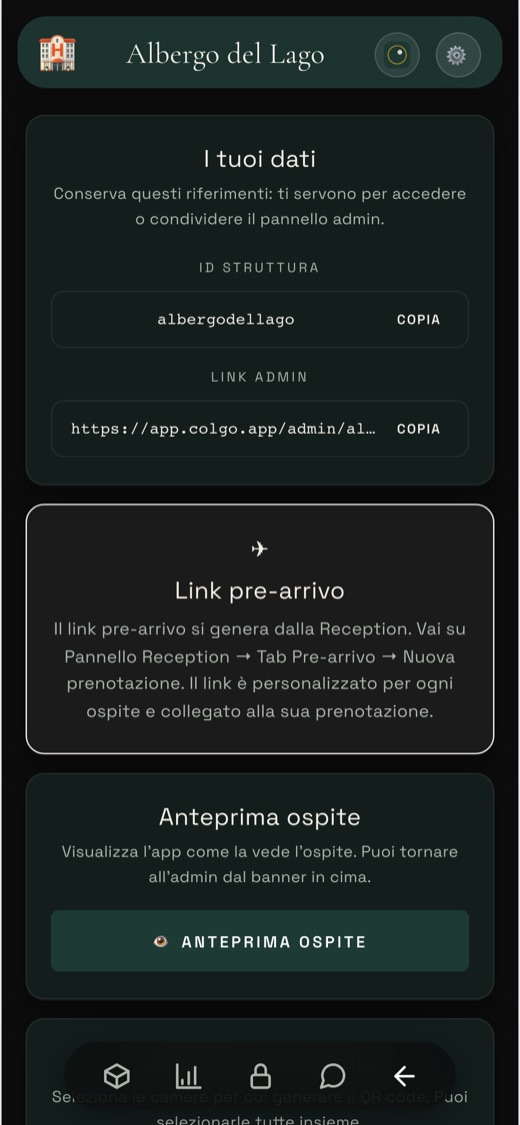
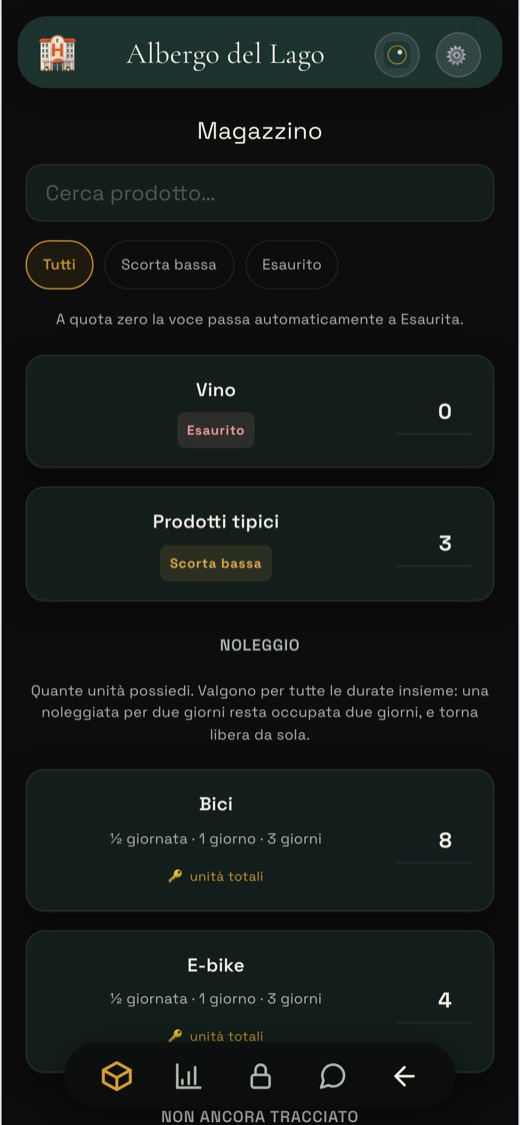
La quarta schermata della home mostrava la terza
Le due immagini erano la stessa pagina — i Link — mentre la didascalia
prometteva magazzino e statistiche. L'unica differenza era la barra in basso.

COME E' SUCCESSO, perche' e' una trappola in cui si ricasca: il tasto "Altro"
del pannello NON cambia pagina, cambia solo le icone della barra (magazzino,
statistiche, accessi, feedback). La pagina sotto resta quella di prima finche'
non si tocca una delle icone nuove. Il 16/08 mi ero fermato un clic prima, e
avevo fotografato lo stato intermedio.

Nello stesso commit di allora avevo scritto: "una didascalia che non
corrisponde all'immagine e' peggio di nessuna". Era questa.

LA NUOVA e' il Magazzino vero di Albergo del Lago: Vino esaurito, Prodotti
tipici in scorta bassa, e il blocco NOLEGGIO con Bici ed E-bike (quante unita'
esistono e per quali durate). Didascalia riscritta di conseguenza in quattro
lingue: dice scorte e noleggi, che e' cio' che si vede.

Per farla sono serviti dati che nella struttura non c'erano: il magazzino era
del tutto vuoto. Le scorte stanno solo sui PRODOTTI (Shop & Minibar) perche'
e' li' che il modello le tiene; il noleggio ha un campo suo, rental_units —
"quante ne possiedi" — con le durate sulle combinazioni. Bici ed E-bike sono
state configurate come noleggi veri, cosi' la demo pubblica ci guadagna.

520x1125 come le altre tre, con --resampleWidth.

diff --git a/index.html b/index.html
@@ -1278,8 +1278,8 @@ body::after {
         <p class="screen-caption" data-it="Stampi i QR per le tue unità" data-en="You print the QR codes for your units" data-fr="Vous imprimez les QR de vos unités" data-de="Sie drucken die QR-Codes für Ihre Einheiten">Stampi i QR per le tue unità</p>
       </div>
       <div class="screen-item">
-        <img src="screenshots/it-adm-04-altro.jpg" alt="E vedi magazzino e statistiche" loading="lazy">
-        <p class="screen-caption" data-it="E vedi magazzino e statistiche" data-en="And you see inventory and statistics" data-fr="Et vous voyez stock et statistiques" data-de="Und Sie sehen Lager und Statistiken">E vedi magazzino e statistiche</p>
+        <img src="screenshots/it-adm-04-altro.jpg" alt="E tieni d'occhio scorte e noleggi" loading="lazy">
+        <p class="screen-caption" data-it="E tieni d'occhio scorte e noleggi" data-en="And you keep an eye on stock and rentals" data-fr="Et vous surveillez stocks et locations" data-de="Und Sie behalten Bestand und Verleih im Blick">E tieni d'occhio scorte e noleggi</p>
       </div>
     </div>
       <p class="screens-hint" data-it="SCORRI PER VEDERE" data-en="SWIPE TO SEE MORE" data-fr="FAITES DÉFILER" data-de="ZUM ANSEHEN WISCHEN">SCORRI PER VEDERE</p>
